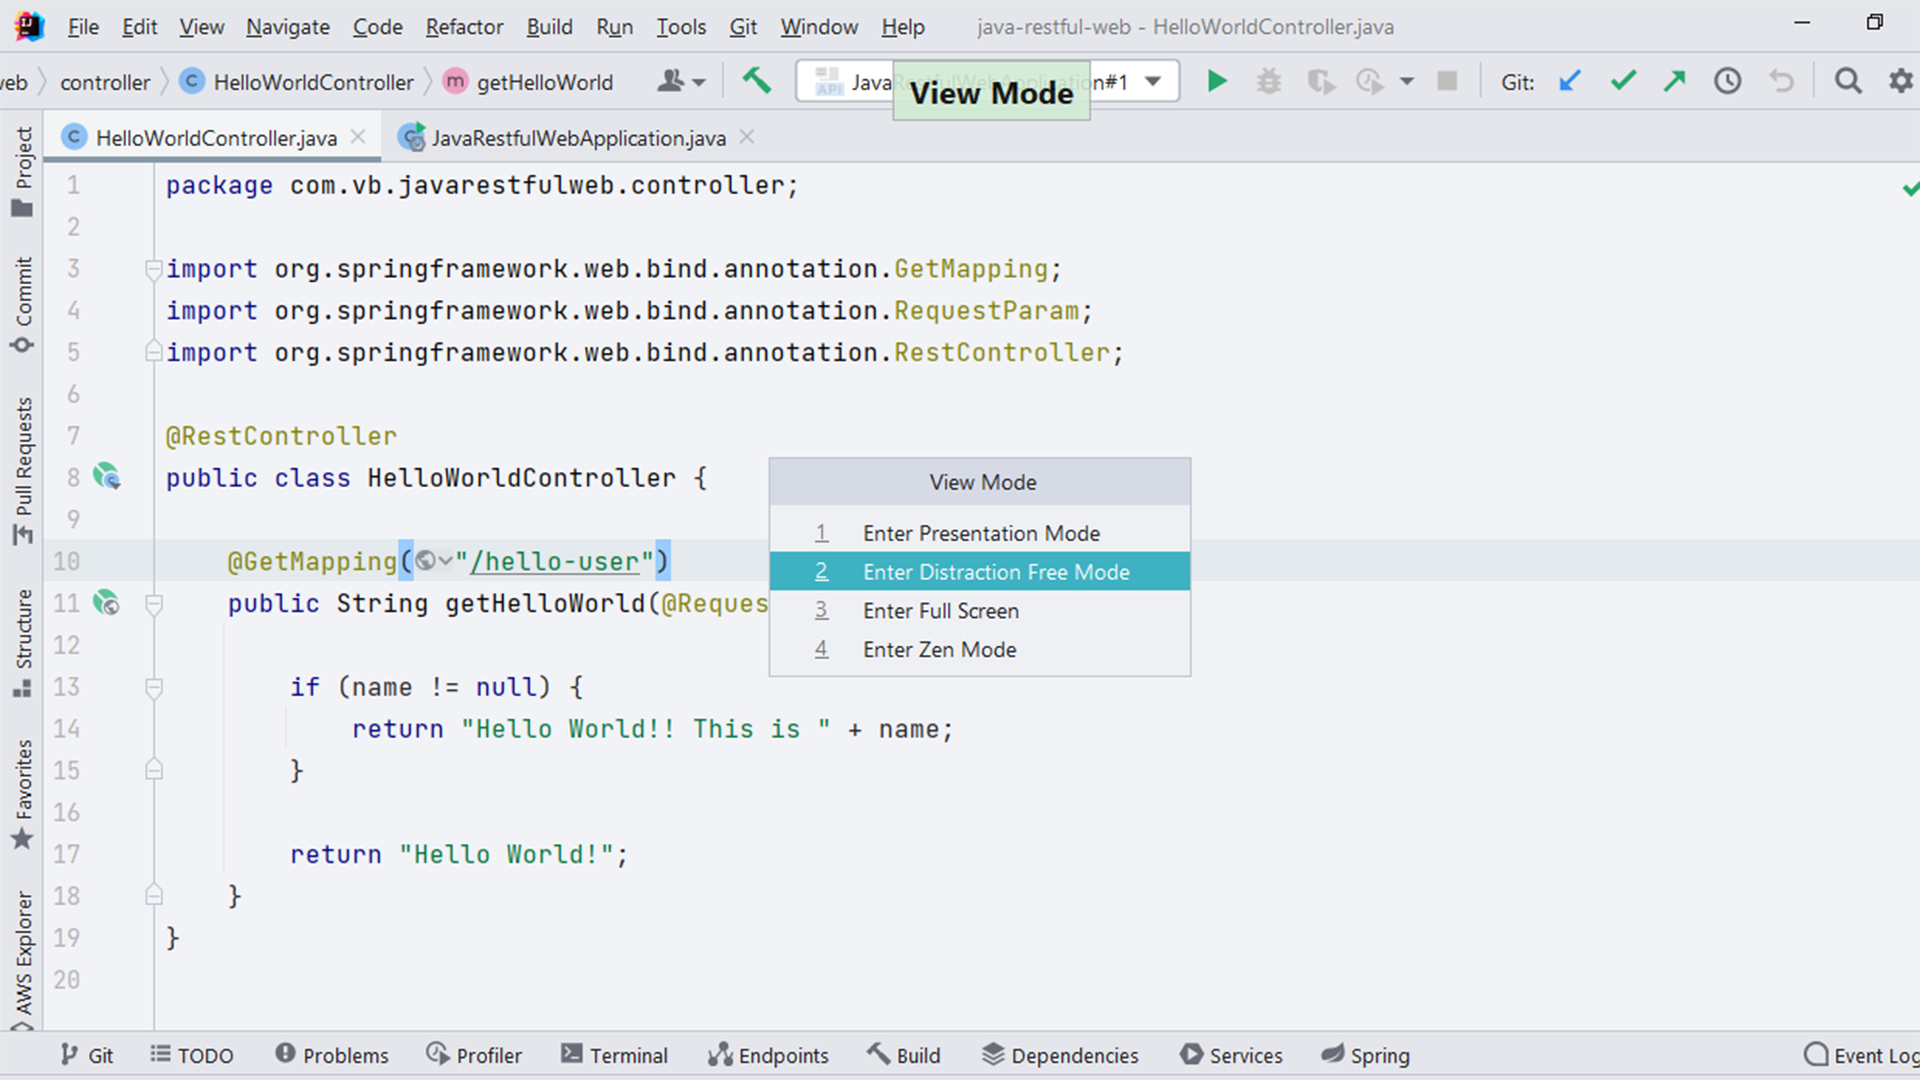
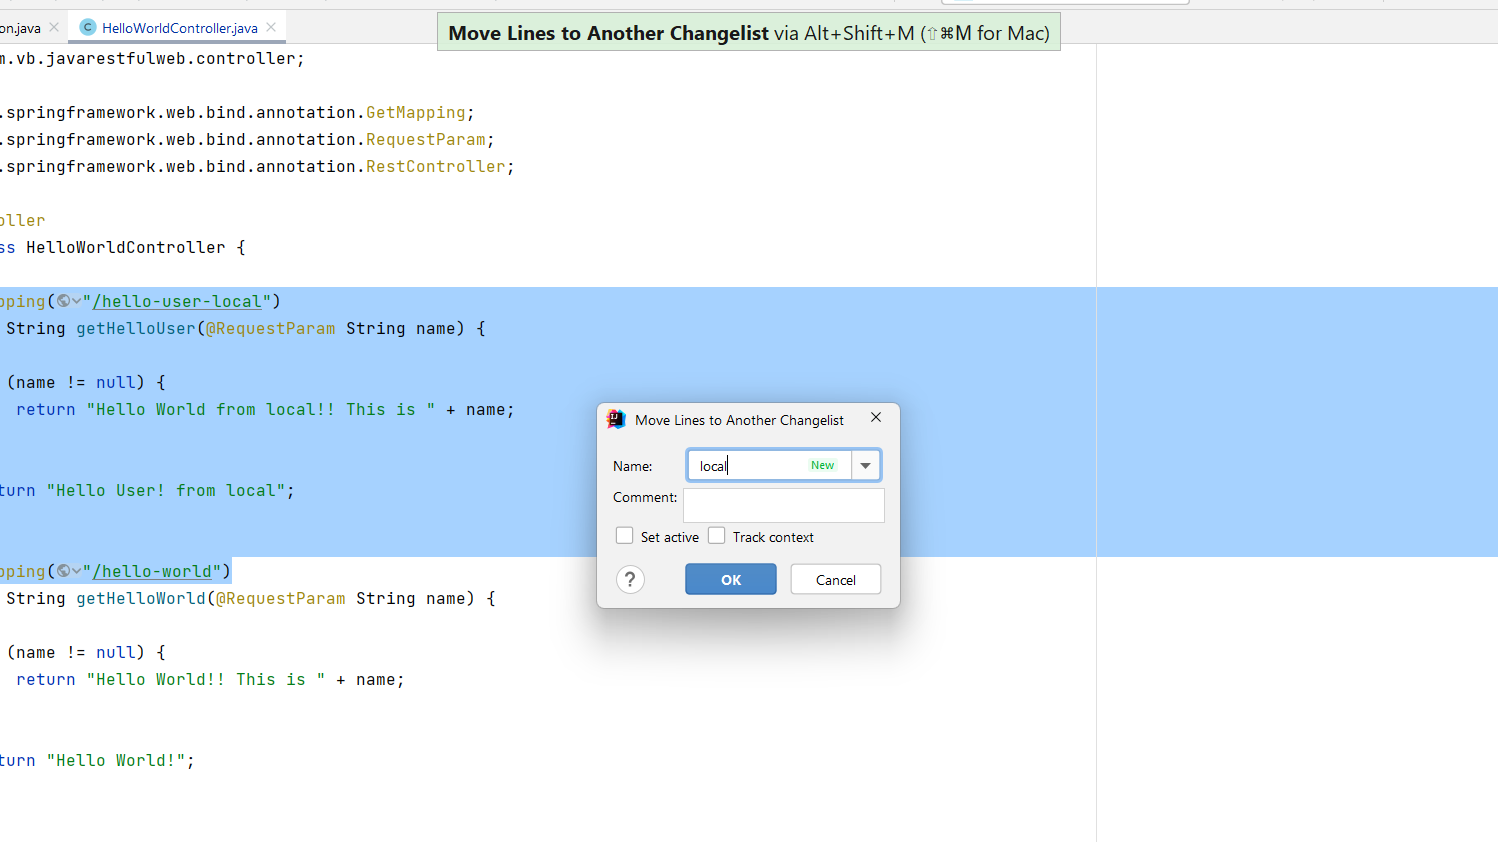
Added draft image

diff --git a/sites/intellij-guide/contents/tips/manage-changelists/index.md b/sites/intellij-guide/contents/tips/manage-changelists/index.md
@@ -1,6 +1,6 @@
 ---
 hasBody: true
-date: 2021-10-22
+date: 2021-11-30
 title: Manage VCS Changelists in IntelliJ IDEA
 technologies: [git]
 topics: [vcs, refactoring, interface]
@@ -12,16 +12,19 @@ shortVideo:
   poster: ./tip.png
   url: https://youtu.be/fO8oDVBsHWA
 seealso:
-  - title: IntelliJ IDEA Help - Manage changelists
+  - title: IntelliJ IDEA Help - Manage Changelists
     href: https://www.jetbrains.com/help/idea/managing-changelists.html
 leadin: |
   Use **⌘0** (macOS) or **Alt + 0** (Windows/Linux), to show the **Commit** tool window. 
   
-  Select the files or changed lines in the file, use **⌘⇧M** (macOS) or **Alt + Shift + M** (Windows/Linux) to bring up **Move Files to Another Changelist** dialog. Now press **2** or click on **Enter Distraction Free Mode** to display just your editor window and focus on coding. 
+  Select the files or changed lines in a file, use **⌘⇧M** (macOS) or **Alt + Shift + M** (Windows/Linux) to bring up **Move Files to Another Changelist** dialog. Now type your preferred name to create new changelist or choose existing changelist. 
 
 ---
 
-## Alternative Ways of Entering Distraction Free Mode 
+## Alternative Ways of Managing VCS Changelists 
+
+TODO: Add idea on creating new changelist from commit dialog and managing files across different changelists.
+
 
 ### Using View Toolbar Options
 You can use the menu **View > Appearance** > **Enter Distraction Free Mode**. 
